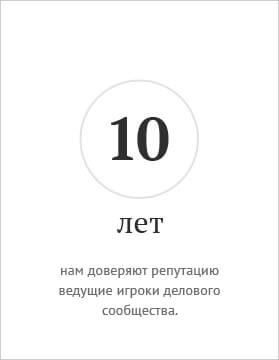
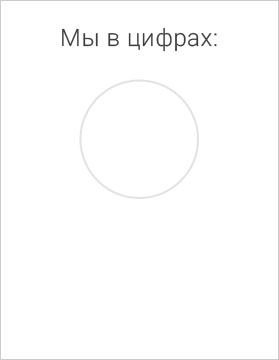
Slider change

diff --git a/app/assets/javascripts/application.js b/app/assets/javascripts/application.js
@@ -66,39 +66,51 @@ $(function() {
 		$('.contact_us_popup').fadeToggle();
 	});
 
+	// if ($('#timer_images').length) {
+	// 	setInterval(function() {
+	// 		var $e = $('#timer_images img')
+	// 			,moveA
+	// 			,fadeA
+	// 			;
+	// 		$e.css({
+	// 			'opacity': 0,
+	// 			'top': '-400px'
+	// 		});
+
+
+	// 		$e.attr('src', $e.data('img'+$e.data('indx')));
+	// 		if ($e.data('indx') < 4) {
+	// 			$e.data('indx', $e.data('indx') + 1);
+	// 		} else {
+	// 			$e.data('indx', 1);
+	// 		}
+
+	// 		moveA = $e
+	// 			.animate(
+	// 				{top: 0, opacity: 1},
+	// 				{
+	// 					duration: 1000,
+	// 					specialEasing: {
+	// 						opacity: "linear",
+	// 						top: "easeInOutBack"
+	// 					}
+	// 				}
+	// 			)
+	// 			.promise()
+	// 			.done(function () {
+	// 			});
+	// 	}, 3000);
+	// }
+
 	if ($('#timer_images').length) {
 		setInterval(function() {
-			var $e = $('#timer_images img')
-				,moveA
-				,fadeA
-				;
-			$e.css({
-				'opacity': 0,
-				'top': '-400px'
-			});
-
-
-			$e.attr('src', $e.data('img'+$e.data('indx')));
-			if ($e.data('indx') < 4) {
-				$e.data('indx', $e.data('indx') + 1);
-			} else {
-				$e.data('indx', 1);
-			}
-
-			moveA = $e
-				.animate(
-					{top: 0, opacity: 1},
-					{
-						duration: 1000,
-						specialEasing: {
-							opacity: "linear",
-							top: "easeInOutBack"
-						}
-					}
-				)
-				.promise()
-				.done(function () {
-				});
+			var $e = $('#timer_images')
+				ind = $e.data('indx'),
+				next = ind < 4 ? ind + 1 : 1;
+			$('.img'+ind, $e).animate({opacity: 0}, function() { $('.img'+ind, $e).hide() });
+			$('.img'+next, $e).show().animate({opacity: 1});
+			// $e.attr('src', $e.data('img'+$e.data('indx')));
+			$e.data('indx', next);
 		}, 3000);
 	}
 

diff --git a/app/assets/stylesheets/application.css.scss b/app/assets/stylesheets/application.css.scss
@@ -65,7 +65,7 @@ form {
 }
 
 .overlay {
-	position: absolute;
+	position: fixed;
 	zoom: 1;
 	z-index: 1;
 	width: 100%;
@@ -386,11 +386,31 @@ form {
 			li {
 				width: 286.7px;
 				&#timer_images {
-					position: relative;
-					height: 360px;
-					img {
-						position: absolute;
-						left: 8px;
+					padding: 0 40px;
+					background-image:url(image_path('slides/3.jpg'));
+					background-position: 50% 0;
+					background-repeat: no-repeat;
+					width: 207px;
+					height: 364px;
+					color: #2f2e2d;
+					.w1 {
+						@include font_serif;
+						font-size: 60px;
+						line-height: 60px;
+						font-weight: bold;
+						margin-top: 111px;
+					}
+					.w2 {
+						@include font_serif;
+						font-size: 30px;
+						line-height: 30px;
+						margin-top: 58px;
+					}
+					.w3 {
+						font-size: 14px;
+						@include font_ptsans;
+						line-height: 14px;
+						margin-top: 26px;
 					}
 				}
 			}

diff --git a/app/assets/stylesheets/ie6.css.scss b/app/assets/stylesheets/ie6.css.scss
@@ -21,3 +21,7 @@ img, div, a {
 .page_title {
 	zoom: 1;
 }
+
+.overlay {
+	position: absolute;
+}
